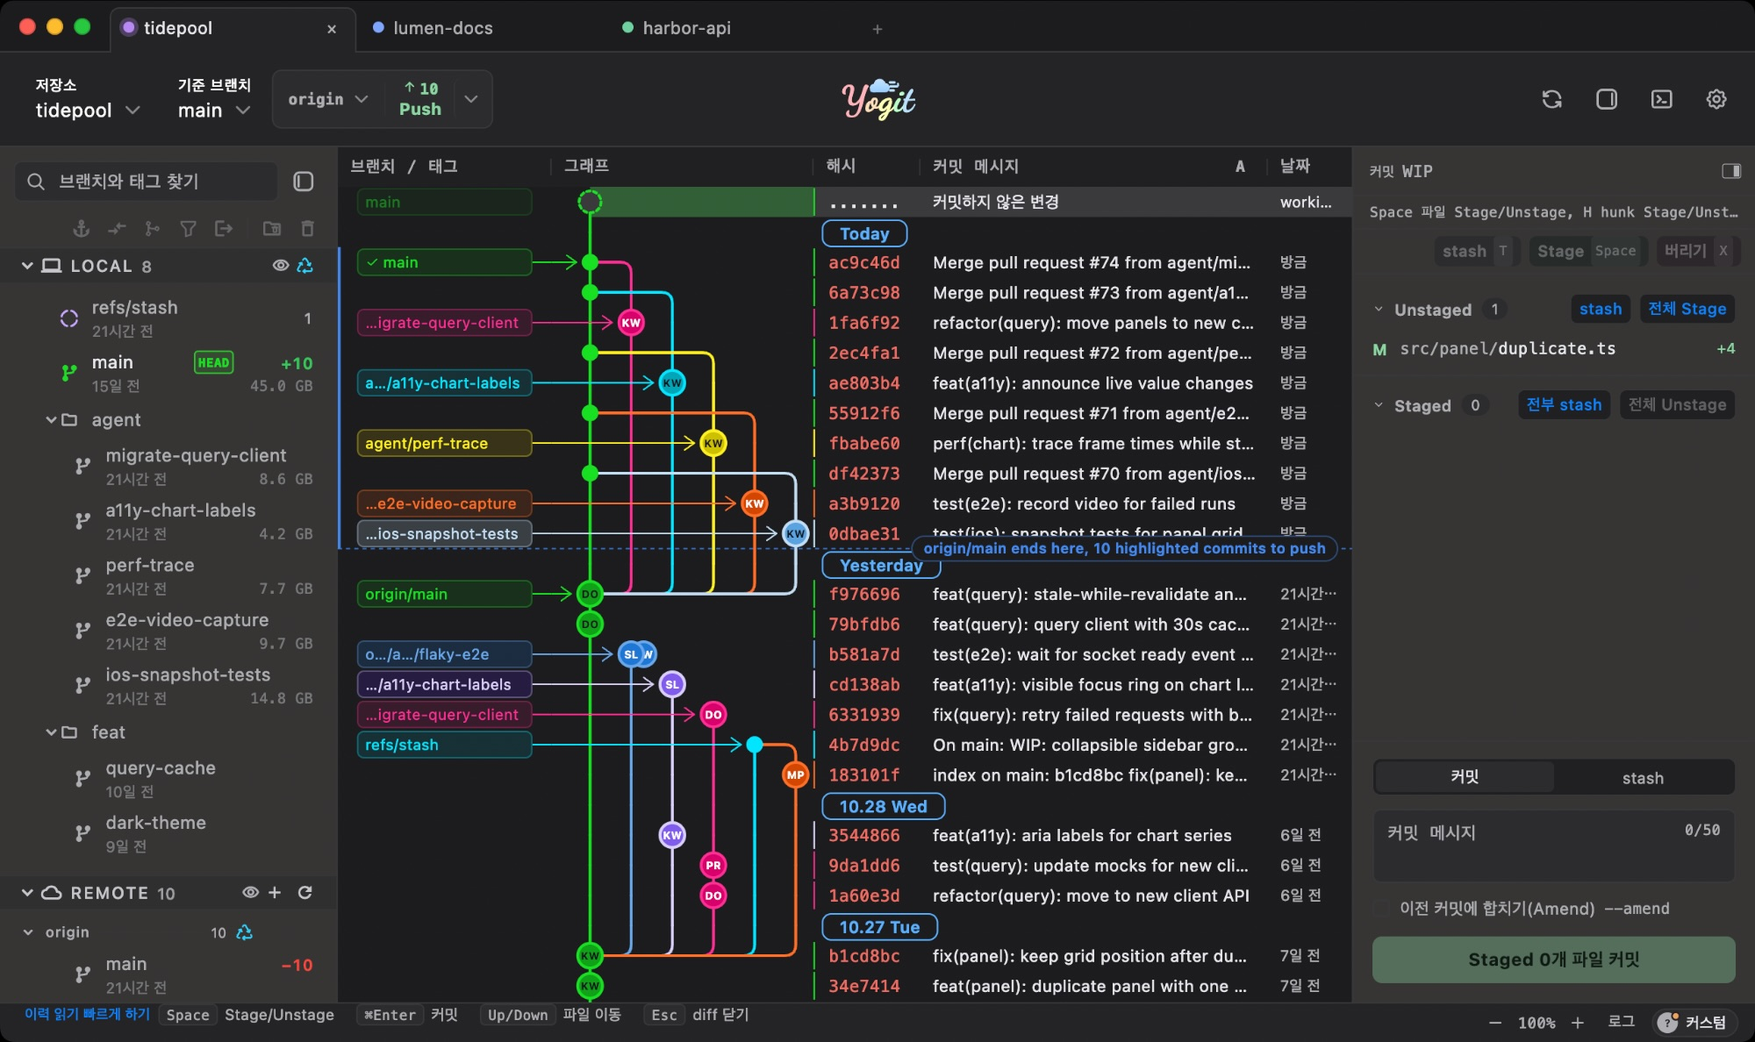
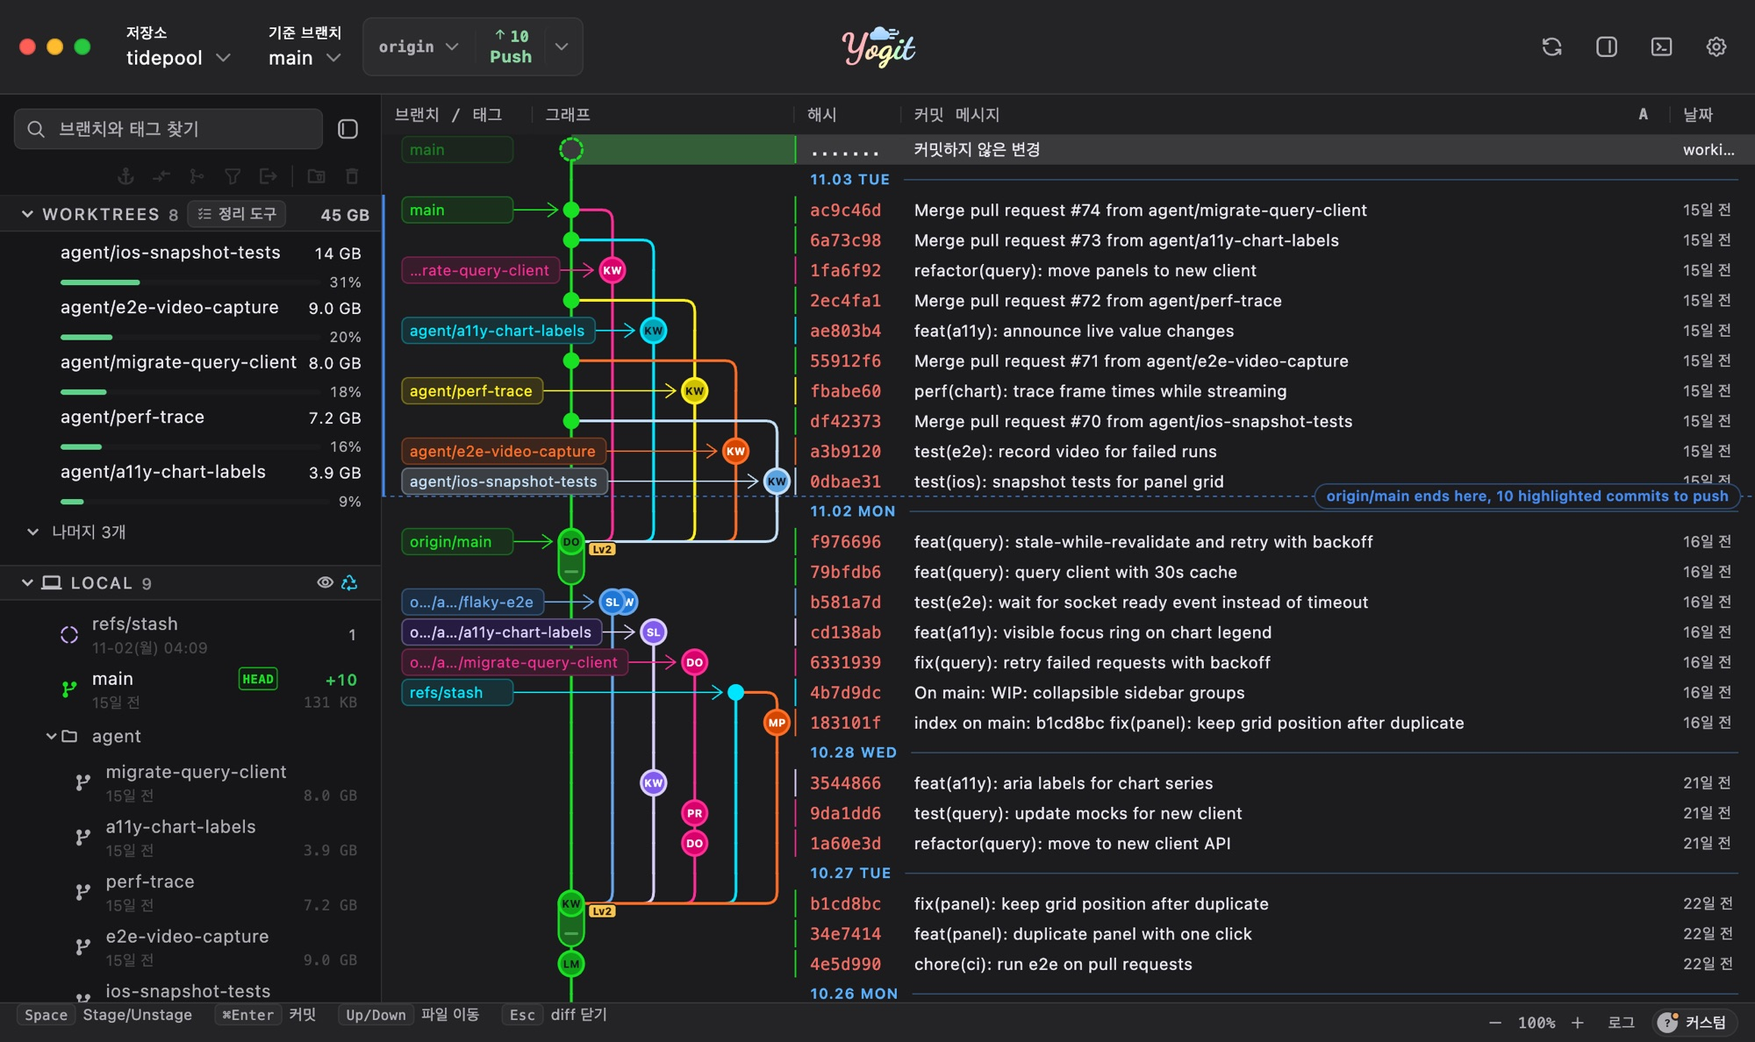
docs: PR 미리보기와 worktree 정리 화면을 지금 앱으로 바꾸고 AI 충돌 해결을 주요 기능으로 옮긴다

diff --git a/index.html b/index.html
@@ -231,6 +231,9 @@
   .card .tools { display: flex; flex-wrap: wrap; gap: 6px; margin-top: 14px; }
   .card.wide { grid-column: 1 / -1; }
   .card.wide .txt { padding-bottom: 16px; }
+  .card.side { grid-column: 1 / -1; flex-direction: row; }
+  .card.side .txt { flex: 5 1 0; align-self: center; }
+  .card.side .pic { flex: 7 1 0; margin-top: 0; border-top: 0; border-left: 1px solid var(--line); }
   .more { grid-template-columns: repeat(2, minmax(0, 1fr)) !important; }
   .extras { display: grid; grid-template-columns: repeat(3, minmax(0, 1fr)); gap: 0 28px; margin: 36px 0 0; }
   .extras > div { padding: 16px 0; border-top: 1px solid var(--line); }
@@ -261,6 +264,8 @@
     .split.wt > div:last-child { padding-bottom: 0; }
     .race { grid-template-columns: minmax(0, 1fr); }
     .more { grid-template-columns: minmax(0, 1fr) !important; }
+    .card.side { flex-direction: column; }
+    .card.side .pic { border-left: 0; border-top: 1px solid var(--line); }
     .extras { grid-template-columns: minmax(0, 1fr); }
     .pair { grid-template-columns: minmax(0, 1fr); }
     .top nav > a:not(.btn) { display: none; }
@@ -426,6 +431,27 @@
     </div>
   </section>
 
+  <!-- AI 충돌 해결 -->
+  <section class="sec" id="ai" style="--c: var(--orange)">
+    <div class="node">AI</div>
+    <div class="meta"><span class="sha">13217c7</span><span class="chip">ai conflict</span></div>
+    <h3 data-en="AI resolves conflicts, you review before applying">AI 가 해결한 충돌을 사람이 확인하고 적용합니다</h3>
+    <ul class="say"><li data-en="Resolve conflicts with the AI CLI you already use: Claude Code, Codex CLI, Antigravity CLI or your own. It runs on your existing sign-in, so no API key is needed.">쓰고 있는 AI CLI 로 충돌을 해결합니다. Claude Code, Codex CLI, Antigravity CLI 나 직접 넣은 CLI 를 쓰던 로그인 그대로 써서 API 키가 필요 없습니다.</li><li data-en="For each conflict region the AI explains why each side changed it and recommends a choice. You check every region in the 3-way view of ours, theirs and the result, pick, then apply.">AI 는 충돌 구역마다 양쪽이 왜 바꿨는지 설명하고 추천을 고릅니다. 사람은 ours, theirs, 결과를 나란히 보는 3-way 화면에서 구역마다 확인하고 고른 뒤 적용합니다.</li><li data-en="The work happens in a temporary worktree, so neither branch changes before you apply, and you can undo after. If one tool hits its usage limit, the next one takes over.">작업은 임시 worktree 에서 하므로 적용 전에는 두 브랜치가 바뀌지 않고, 적용한 뒤에도 되돌릴 수 있습니다. 한 도구가 사용 한도에 걸리면 다음 도구가 이어 받습니다.</li></ul>
+    <div class="feat seq">
+      <div class="shot frames">
+        <div class="frame" data-d="2400"><img src="assets/v4/ai-0.jpg" width="2000" height="1188" loading="lazy" alt="feat/query-metrics 를 main 에 머지하는 미리보기에서 src/query/client.ts 충돌. 아래에 AI로 해결 버튼" data-en-alt="A merge preview of feat/query-metrics into main with a conflict in src/query/client.ts and the Resolve with AI button below">
+          <span class="hl" style="left:50%;top:70.6%;width:4.6%;height:3.6%"></span><span class="hl soft" style="left:22%;top:9.4%;width:55%;height:59%"></span></div>
+        <div class="frame" data-d="2000"><img src="assets/v4/ai-1.jpg" width="2000" height="1188" loading="lazy" alt="Claude Code 가 파일 1개를 설명하는 중" data-en-alt="Claude Code is explaining 1 file">
+          <span class="hl" style="left:22.2%;top:76.6%;width:54.6%;height:3.6%"></span></div>
+        <div class="frame" data-d="4200"><img src="assets/v4/ai-2.jpg" width="2000" height="1188" loading="lazy" alt="AI로 충돌 해결 화면. 왼쪽에 구역마다 OURS, THEIRS, 충돌 이유, 추천과 고르는 칩, 오른쪽에 main, feat/query-metrics, 고른 대로 합친 결과를 나란히 놓은 3-way 화면" data-en-alt="The resolve with AI screen. On the left, each region's ours, theirs, why it conflicts and the recommendation with choice chips. On the right, a 3-way view of main, feat/query-metrics and the result merged as chosen">
+          <span class="hl" style="left:0.8%;top:43.8%;width:21.2%;height:35.8%"></span><span class="hl soft" style="left:22.8%;top:5.6%;width:77%;height:88%"></span><span class="hl soft" style="left:89.9%;top:94.8%;width:9.1%;height:4.2%"></span></div>
+        <div class="frame" data-d="2600"><img src="assets/v4/ai-3.jpg" width="2000" height="1188" loading="lazy" alt="적용한 뒤. client.ts 에 해결됨 표시, Claude, 5줄 버림, 되돌리기" data-en-alt="After applying, client.ts is marked resolved with Claude, 5 lines dropped and Undo">
+          <span class="hl" style="left:79.6%;top:58.6%;width:19.2%;height:3.2%"></span></div>
+      </div>
+      <div class="steps"><button type="button" data-en="<b>Conflict</b>Resolve with AI"><b>충돌</b>AI로 해결</button><button type="button" data-en="<b>Claude Code</b>Explains each region"><b>Claude Code</b>구역마다 설명</button><button type="button" data-en="<b>3-way</b>You review and choose"><b>3-way</b>사람이 보고 고름</button><button type="button" data-en="<b>Applied</b>Can be undone"><b>적용</b>되돌리기 가능</button></div>
+    </div>
+  </section>
+
   <!-- 에이전트 커밋 -->
   <section class="sec" id="agent" style="--c: var(--cyan)">
     <div class="node">AG</div>
@@ -450,32 +476,32 @@
     <div class="node">WT</div>
     <div class="meta"><span class="sha">c71d002</span><span class="chip">worktree</span></div>
     <h3 data-en="Cleanup for merged worktrees">이미 병합이 끝난 Worktree 정리 기능</h3>
-    <ul class="say"><li data-en="See how much disk space each worktree uses before you delete it.">Worktree 가 사용 중인 디스크 공간 크기를 보고 지울 수 있습니다.</li><li data-en="Branches merged into the base branch, squash merges included, are found in one go and deleted along with their worktrees.">기준 브랜치에 머지된 브랜치는 squash 머지까지 한 번에 찾아서 worktree 와 함께 지웁니다.</li></ul>
+    <ul class="say"><li data-en="The WORKTREES section in the sidebar shows each worktree's size and share as a bar. Its color says whether it is safe to delete (green), needs a look (yellow) or is in use (gray).">사이드바의 WORKTREES 구역에서 worktree 마다 크기와 차지하는 몫을 막대로 봅니다. 막대 색은 지워도 되는지(초록), 확인이 필요한지(노랑), 사용 중인지(회색)를 알려 줍니다.</li><li data-en="The cleanup tool finds branches merged into the base branch, squash merges included, and sorts them into safe, needs a look and in use. Drag over rows to select them, and see how far each one has got while it deletes.">정리 도구는 기준 브랜치에 머지된 브랜치를 squash 머지까지 찾아 지워도 됨, 확인 필요, 사용 중으로 나눕니다. 줄을 끌어서 고르고, 지우는 동안 줄마다 어디까지 지웠는지 보여 줍니다.</li></ul>
     <div class="split wt">
       <div class="seq" id="wtseq">
         <div class="shot frames">
-          <div class="frame" data-d="2200" data-freed="0"><img src="assets/v4/wt-0.jpg" width="2000" height="1188" loading="lazy" alt="main 에 머지된 agent 브랜치 다섯 개와 각 worktree 크기, 8.6 GB, 4.2 GB, 7.7 GB, 9.7 GB, 14.8 GB" data-en-alt="Five agent branches merged into main with worktree sizes of 8.6, 4.2, 7.7, 9.7 and 14.8 GB">
-            <span class="hl" style="left:2.2%;top:42%;width:16.4%;height:26.4%"></span></div>
-          <div class="frame" data-d="2200" data-freed="0"><img src="assets/v4/wt-1.jpg" width="2000" height="1188" loading="lazy" alt="머지된 브랜치 고르기 버튼으로 다섯 개를 한 번에 고른 상태" data-en-alt="All five selected at once with the select merged branches button">
-            <span class="hl" style="left:16%;top:24%;width:3.2%;height:3.8%"></span><span class="hl soft" style="left:2.2%;top:42%;width:16.4%;height:26.4%"></span></div>
-          <div class="frame" data-d="3000" data-freed="0"><img src="assets/v4/wt-2.jpg" width="2000" height="1188" loading="lazy" alt="브랜치 5개를 삭제할까요. 모두 main 에 머지되어 있어 사라지는 커밋은 없습니다. worktree 5개도 함께 삭제해 45 GB 를 확보합니다" data-en-alt="Delete 5 branches? All are merged into main, so no commits are lost. Their 5 worktrees go too, freeing 45 GB">
-            <span class="hl" style="left:39.1%;top:36.8%;width:21.8%;height:30%"></span></div>
-          <div class="frame" data-d="1500" data-freed="count"><img src="assets/v4/wt-3.jpg" width="2000" height="1188" loading="lazy" alt="브랜치를 지우는 중 3/5" data-en-alt="Deleting branches, 3 of 5">
-            <span class="hl" style="left:19.4%;top:17.8%;width:12%;height:3.8%"></span></div>
-          <div class="frame" data-d="3400" data-freed="45"><img src="assets/v4/wt-4.jpg" width="2000" height="1188" loading="lazy" alt="브랜치 5개 삭제됨, worktree 5개도 삭제. main 저장소는 131 KB" data-en-alt="5 branches and 5 worktrees deleted, main repository now 131 KB">
-            <span class="hl" style="left:78.4%;top:92%;width:21%;height:5.4%"></span><span class="hl soft" style="left:2.2%;top:32.6%;width:16.4%;height:5%"></span></div>
+          <div class="frame" data-d="2600" data-freed="0"><img src="assets/v4/wt-0.jpg" width="2000" height="1188" loading="lazy" alt="사이드바 WORKTREES 구역. worktree 8개, 45 GB. 머지된 agent 브랜치 다섯 개가 초록 막대로 보인다" data-en-alt="The WORKTREES section in the sidebar with 8 worktrees and 45 GB. Five merged agent branches show green bars">
+            <span class="hl" style="left:0.4%;top:18.7%;width:21.4%;height:33.6%"></span><span class="hl soft" style="left:10.6%;top:19.3%;width:5.8%;height:2.8%"></span></div>
+          <div class="frame" data-d="2600" data-freed="0"><img src="assets/v4/wt-1.jpg" width="2000" height="1188" loading="lazy" alt="정리 화면. 지워도 됨 5개 42 GB, 확인 필요 2개 3.2 GB, 사용 중 1개" data-en-alt="The cleanup screen: 5 safe to delete with 42 GB, 2 to check with 3.2 GB, 1 in use">
+            <span class="hl" style="left:22.4%;top:16%;width:77.2%;height:22.8%"></span><span class="hl soft" style="left:22.4%;top:39.6%;width:77.2%;height:15.4%"></span></div>
+          <div class="frame" data-d="2400" data-freed="0"><img src="assets/v4/wt-2.jpg" width="2000" height="1188" loading="lazy" alt="지워도 되는 다섯 개를 고른 상태. 고른 것 5개 삭제, 42 GB" data-en-alt="All five safe ones selected. Delete 5 selected, 42 GB">
+            <span class="hl" style="left:87.8%;top:92.3%;width:11.4%;height:3.2%"></span><span class="hl soft" style="left:22.4%;top:18.6%;width:77.2%;height:20.4%"></span></div>
+          <div class="frame" data-d="1800" data-freed="count"><img src="assets/v4/wt-3.jpg" width="2000" height="1188" loading="lazy" alt="지우는 중, 5개 가운데 2개, 23 GB 확보. 셋째 줄은 브랜치를 지우고 worktree 를 지우는 중" data-en-alt="Deleting 2 of 5 with 23 GB freed. The third row has its branch deleted and its worktree going">
+            <span class="hl" style="left:22.6%;top:10%;width:20%;height:3.4%"></span><span class="hl soft" style="left:22.4%;top:18.8%;width:77.2%;height:22.4%"></span></div>
+          <div class="frame" data-d="3400" data-freed="42"><img src="assets/v4/wt-4.jpg" width="2000" height="1188" loading="lazy" alt="5개 지움, 42 GB 확보. 사이드바에는 확인이 필요한 worktree 둘과 main 만 남았다" data-en-alt="5 deleted, 42 GB freed. Only the two worktrees to check and main are left in the sidebar">
+            <span class="hl" style="left:22.7%;top:16%;width:76.4%;height:5%"></span><span class="hl soft" style="left:0.4%;top:18.7%;width:21.4%;height:20.4%"></span></div>
         </div>
-        <div class="steps"><button type="button" data-en="<b>5</b>Worktrees merged into main"><b>5개</b>main 에 머지된 worktree</button><button type="button" data-en="<b>One click</b>Select merged branches"><b>한 번에</b>머지된 브랜치 고르기</button><button type="button" data-en="<b>45 GB</b>No commits lost"><b>45 GB</b>사라지는 커밋 없음</button><button type="button" data-en="<b>3/5</b>Deleting"><b>3/5</b>지우는 중</button><button type="button" data-en="<b>Done</b>All cleaned up"><b>끝</b>정리 완료</button></div>
+        <div class="steps"><button type="button" data-en="<b>WORKTREES</b>Size and state"><b>WORKTREES</b>크기와 상태</button><button type="button" data-en="<b>Cleanup</b>Sorted by safety"><b>정리 도구</b>세 구역으로 나눔</button><button type="button" data-en="<b>5</b>Select the safe ones"><b>5개</b>지워도 되는 것 고르기</button><button type="button" data-en="<b>2/5</b>Deleting"><b>2/5</b>지우는 중</button><button type="button" data-en="<b>42 GB</b>Cleaned up"><b>42 GB</b>정리 완료</button></div>
       </div>
       <div class="freed-box">
         <div class="lbl" data-en="Space reclaimed">되찾은 공간</div>
         <div id="freed">0.0 GB</div>
         <ul class="wtlist" id="wtlist">
-          <li data-gb="8.6"><span>migrate-query-client</span><b>8.6 GB</b></li>
-          <li data-gb="4.2"><span>a11y-chart-labels</span><b>4.2 GB</b></li>
-          <li data-gb="7.7"><span>perf-trace</span><b>7.7 GB</b></li>
-          <li data-gb="9.7"><span>e2e-video-capture</span><b>9.7 GB</b></li>
-          <li data-gb="14.8"><span>ios-snapshot-tests</span><b>14.8 GB</b></li>
+          <li data-gb="13.8"><span>ios-snapshot-tests</span><b>14 GB</b></li>
+          <li data-gb="9.0"><span>e2e-video-capture</span><b>9.0 GB</b></li>
+          <li data-gb="8.0"><span>migrate-query-client</span><b>8.0 GB</b></li>
+          <li data-gb="7.2"><span>perf-trace</span><b>7.2 GB</b></li>
+          <li data-gb="3.9"><span>a11y-chart-labels</span><b>3.9 GB</b></li>
         </ul>
       </div>
     </div>
@@ -552,21 +578,19 @@
   <!-- PR -->
   <section class="sec" id="pr" style="--c: var(--main)">
     <div class="node">PR</div>
-    <div class="meta"><span class="sha">f3a9be1</span><span class="chip">pull request</span></div>
+    <div class="meta"><span class="sha">627b4c7</span><span class="chip">pull request</span></div>
     <h3 data-en="PR preview">PR 미리 보기</h3>
-    <ul class="say"><li data-en="See review, CI and conflict status of open PRs on cards.">열린 PR 은 리뷰, CI, 충돌 여부를 카드 형태로 미리 볼 수 있습니다.</li></ul>
+    <ul class="say"><li data-en="Pick the pending merges row to see review, CI and conflict status of every open PR on cards.">머지 예정 행을 고르면 열린 PR 마다 리뷰, CI, 충돌 여부를 카드로 보여 줍니다.</li><li data-en="Pick a card and the timeline locks onto that PR. Only the commits the PR sends stay bright, and the commit it branched from is marked with a ring.">카드를 고르면 타임라인이 그 PR 로 잠깁니다. PR 이 보내는 커밋만 밝게 남고, PR 이 갈라져 나온 커밋은 고리로 표시됩니다.</li><li data-en="While it is locked you can look at any commit, then go back to the card with the close button or Esc.">잠긴 동안 다른 커밋을 보다가 닫기 버튼이나 Esc 로 고른 카드에 바로 돌아갑니다.</li></ul>
     <div class="feat seq">
       <div class="shot frames">
-        <div class="frame" data-d="2600"><img src="assets/v4/pr-0.jpg" width="2000" height="1188" loading="lazy" alt="머지 예정 4건 행과 PR #58 카드, 머지 가능, 승인 2/2" data-en-alt="Pending merges row for 4 PRs and the PR #58 card, ready to merge with 2 of 2 approvals">
-          <span class="hl" style="left:20.2%;top:20.6%;width:56.6%;height:3.4%"></span><span class="hl soft" style="left:77.2%;top:13.6%;width:22.6%;height:30.4%"></span></div>
-        <div class="frame" data-d="2200"><img src="assets/v4/pr-1.jpg" width="2000" height="1188" loading="lazy" alt="PR #61 카드, 리뷰 대기" data-en-alt="PR #61 card, awaiting review">
-          <span class="hl" style="left:77.2%;top:13.6%;width:22.6%;height:30.4%"></span></div>
-        <div class="frame" data-d="2200"><img src="assets/v4/pr-2.jpg" width="2000" height="1188" loading="lazy" alt="PR #63 카드, CI 실패" data-en-alt="PR #63 card, CI failing">
-          <span class="hl" style="left:77.2%;top:13.6%;width:22.6%;height:30.4%"></span></div>
-        <div class="frame" data-d="2200"><img src="assets/v4/pr-3.jpg" width="2000" height="1188" loading="lazy" alt="PR #64 카드, 초안" data-en-alt="PR #64 card, draft">
-          <span class="hl" style="left:77.2%;top:13.6%;width:22.6%;height:30.4%"></span></div>
+        <div class="frame" data-d="2800"><img src="assets/v4/pr-0.jpg" width="2000" height="1188" loading="lazy" alt="머지 예정 4건 행과 PR 현황. #58 머지 가능, #61 리뷰 중, #63 CI 실패 카드" data-en-alt="Pending merges row for 4 PRs and the PR status cards: #58 ready to merge, #61 in review, #63 CI failing">
+          <span class="hl" style="left:56.8%;top:15.8%;width:19.9%;height:3%"></span><span class="hl soft" style="left:77.6%;top:9.6%;width:22%;height:86.4%"></span></div>
+        <div class="frame" data-d="3200"><img src="assets/v4/pr-1.jpg" width="2000" height="1188" loading="lazy" alt="#58 카드를 고르자 타임라인 잠김 띠와 붉은 테두리가 생기고 PR 커밋 세 개만 밝게 남았다. 갈라져 나온 커밋 v1.4.0 은 고리로 표시" data-en-alt="Picking the #58 card locks the timeline with a red band and border. Only the PR's three commits stay bright, and v1.4.0, where it branched off, is a ring">
+          <span class="hl" style="left:22%;top:13%;width:55%;height:3.4%"></span><span class="hl soft" style="left:78%;top:28.6%;width:21.2%;height:22.9%"></span><span class="hl soft" style="left:33.8%;top:70.8%;width:2.2%;height:3.6%"></span></div>
+        <div class="frame" data-d="2800"><img src="assets/v4/pr-2.jpg" width="2000" height="1188" loading="lazy" alt="잠긴 채 PR 커밋 98b02fa 를 본다. 미리보기 머리줄의 붉은 닫기 버튼으로 카드에 돌아간다" data-en-alt="Looking at PR commit 98b02fa while locked. The red close button on the preview header goes back to the card">
+          <span class="hl" style="left:95.6%;top:12.6%;width:2.4%;height:3.4%"></span><span class="hl soft" style="left:22%;top:48%;width:55%;height:3.1%"></span></div>
       </div>
-      <div class="steps"><button type="button" data-en="<b>#58</b>Ready to merge"><b>#58</b>머지 가능</button><button type="button" data-en="<b>#61</b>Awaiting review"><b>#61</b>리뷰 대기</button><button type="button" data-en="<b>#63</b>CI failing"><b>#63</b>CI 실패</button><button type="button" data-en="<b>#64</b>Draft"><b>#64</b>초안</button></div>
+      <div class="steps"><button type="button" data-en="<b>4 PRs</b>PR status"><b>4건</b>PR 현황</button><button type="button" data-en="<b>#58</b>Timeline locked"><b>#58</b>타임라인 잠금</button><button type="button" data-en="<b>Esc</b>Back to the card"><b>Esc</b>카드로 돌아가기</button></div>
     </div>
   </section>
 
@@ -591,17 +615,9 @@
     <div class="meta"><span class="sha">8b0c4d3</span><span class="chip" style="--c:#9a9aa2">and more</span></div>
     <h3>And more</h3>
     <div class="more">
-      <div class="card">
+      <div class="card side">
         <div class="txt"><h4 data-en="Secret scan before push">Push 전 비밀키 검사</h4><p data-en="Commits about to be pushed are scanned with gitleaks. If an API key or token turns up, the push stops and you see the commit and line.">올라갈 커밋을 gitleaks 로 검사합니다. API 키나 토큰이 보이면 Push 를 멈추고 커밋과 줄을 알려 줍니다.</p></div>
         <div class="pic"><div class="lens" data-r="0.296,0.33,0.408,0.39"><img src="assets/v4/secret.jpg" width="2000" height="1188" loading="lazy" alt="올라갈 커밋 1개에서 비밀키로 보이는 값 1개를 찾았습니다" data-en-alt="Found 1 likely secret in 1 commit about to be pushed"></div></div>
-      </div>
-      <div class="card">
-        <div class="txt"><h4 data-en="AI conflict resolution">AI 충돌 해결</h4><p data-en="Resolve conflicts with the AI CLI you already use. It runs on your existing sign-in, so no API key is needed, and you review the result before it is applied. If one tool hits its usage limit, the next one takes over.">쓰고 있는 AI CLI 로 충돌을 해결합니다. API 키 없이 쓰던 로그인을 그대로 쓰고 적용 전에 결과를 확인합니다. 한 도구가 사용 한도에 걸리면 다음 도구가 이어 받습니다.</p>
-          <div class="tools"><span>Claude Code</span><span>Codex CLI</span><span>Antigravity CLI</span><span data-en="Your own CLI">직접 넣은 CLI</span></div></div>
-      </div>
-      <div class="card wide">
-        <div class="txt"><h4>3-way diff view</h4><p data-en="Ours, the result and theirs side by side, with connector lines showing where each line of the result came from.">ours, 해결 결과, theirs 세 열을 나란히 놓고 결과의 줄마다 어디서 왔는지 연결선으로 보여 줍니다.</p></div>
-        <div class="pic"><img src="assets/v4/three-way.jpg" width="2000" height="1188" loading="lazy" alt="3-way diff view. 왼쪽 main, 가운데 Claude Code 가 합친 결과, 오른쪽 feat/query-cache. 아래에 줄 출처 범례" data-en-alt="3-way diff view with main on the left, the result merged by Claude Code in the middle and feat/query-cache on the right, with a line origin legend below"></div>
       </div>
     </div>
     <dl class="extras">
@@ -692,11 +708,11 @@
   const setFreed = mode => {
     clearInterval(countTimer);
     if (mode === '0') { freed.textContent = fmtGB(0); wtItems.forEach(li => li.classList.remove('gone')); return; }
-    if (mode === '45') { freed.textContent = '45 GB'; wtItems.forEach(li => li.classList.add('gone')); return; }
+    if (mode === '42') { freed.textContent = '42 GB'; wtItems.forEach(li => li.classList.add('gone')); return; }
     let k = 0, sum = 0;
     wtItems.forEach(li => li.classList.remove('gone'));
     countTimer = setInterval(() => {
-      if (k >= wtItems.length) { clearInterval(countTimer); freed.textContent = '45 GB'; return; }
+      if (k >= wtItems.length) { clearInterval(countTimer); freed.textContent = '42 GB'; return; }
       wtItems[k].classList.add('gone'); sum += +wtItems[k].dataset.gb; k++;
       freed.textContent = fmtGB(sum);
     }, 260);
